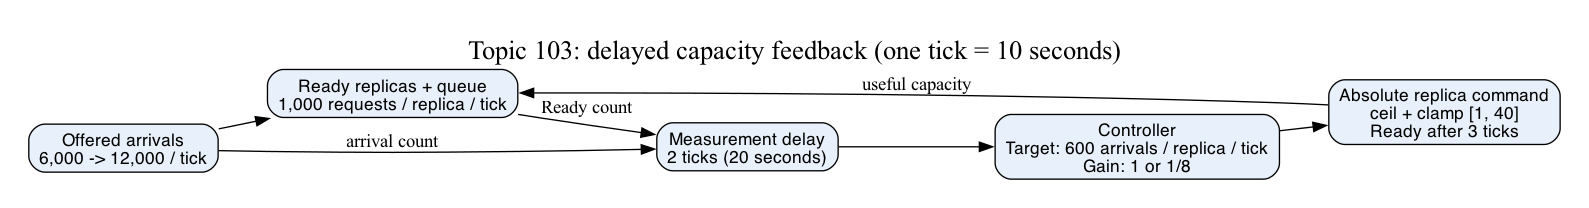
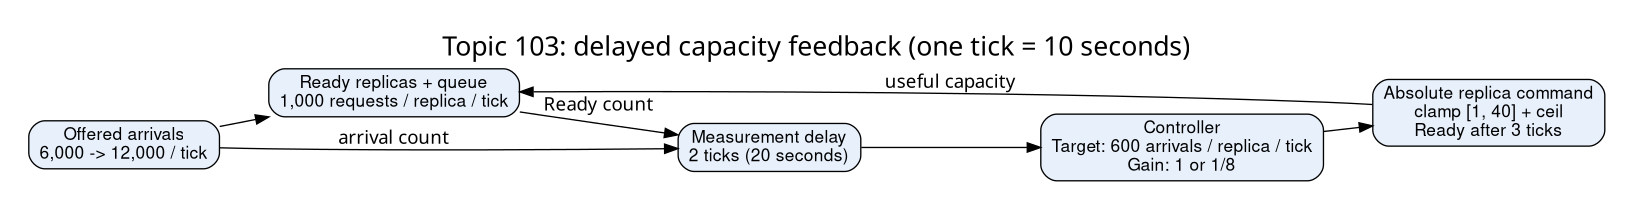
fix(103): state the combined loop delay and test both gain policies
README: the sampled ready count reflects a command issued one actuation
delay earlier, so the recurrence delay is d = m + a - 1. With m=2 and a=3
that is d=4 and the gain bound is about 0.347. The text previously quoted
the d=2 bound, 0.618.

RESULTS: name what each host artifact retains. The Linux run logs hold the
archive hash, uname, lscpu, and rustc version; the local artifacts hold the
platform string, architecture, Python version, and test output. Cite the
final_ready_span field behind the fast-policy span claim. Record the
commits that postdate the tested source.

loop.dot/loop.png: label the actuator "clamp [1, 40] + ceil", the order
simulate applies. Rendered with `dot -Tpng loop.dot -o loop.png`.

src/lib.rs: add one unit test covering Policy::Fast, Policy::Slow with a
non-zero deficit, ceiling rounding of a fractional state, and the lower
clamp. Four mutants of simulate passed the three existing tests and fail
this one. simulate, src/main.rs, and experiment/check.py are byte-identical
to 936c93f; the release binary reproduces state digest 1dbaca1c.

Remedy decision for the test: Small tier, 3 judges, unanimous for the
in-module unit test over a tests/ integration file (CI does not run it)
and over declining; decided by majority.

Changed region(s): [[0.0, 0.3173, 0.9868, 0.8942], [0.2467, 0.1731, 0.7401, 0.2885]]

diff --git a/topics/103-feedback-control/src/lib.rs b/topics/103-feedback-control/src/lib.rs
@@ -117,6 +117,25 @@ mod tests {
     }
 
     #[test]
+    fn gain_policies_accumulate_fractional_deficits_and_clamp_low() {
+        // 6,300 arrivals against ten ready replicas is a deficit of half a replica.
+        let fast = simulate(&[6_300; 2], &[true; 2], Policy::Fast, 0, 1);
+        assert_eq!((fast[0].desired, fast[0].command), (50_400, 11));
+        assert_eq!(
+            (fast[1].ready, fast[1].desired, fast[1].command),
+            (11, 48_000, 10)
+        );
+        let slow = simulate(&[6_300; 2], &[true; 2], Policy::Slow, 0, 1);
+        assert_eq!((slow[0].desired, slow[0].command), (48_300, 11));
+        assert_eq!(
+            (slow[1].ready, slow[1].desired, slow[1].command),
+            (11, 48_000, 10)
+        );
+        let idle = simulate(&[0], &[true], Policy::Fast, 0, 1);
+        assert_eq!((idle[0].desired, idle[0].command), (4_800, 1));
+    }
+
+    #[test]
     fn delay_free_linear_recurrence_matches_closed_form() {
         let mut error = 1.0_f64;
         for k in 0..100 {

diff --git a/topics/103-feedback-control/RESULTS.md b/topics/103-feedback-control/RESULTS.md
@@ -41,9 +41,13 @@ Tested source: `936c93f1f6ee13a7dd705596f4fadf315b00c5f6`.
 
 Local macOS arm64, Linux AArch64, and Linux x86_64 each pass 72,000 complete
 state comparisons (288,000 field comparisons), three unit tests, and one doctest.
-All three have identical state-output digests. Rust 1.93.1 release builds; Python
-versions and CPU/kernel metadata are retained with each host result. These are
-deterministic simulation outcomes; host runtime speed is outside the experiment.
+All three have identical state-output digests. The workspace pins Rust 1.93.1;
+builds use the release profile. Each host JSON retains the platform string,
+machine architecture, and Python version. The Linux run logs also retain the
+archive SHA-256, `uname -a`, `lscpu`, and the `rustc` version. The local log
+retains the test and release-build output; the local CPU model and `rustc`
+version were not captured. These are deterministic simulation outcomes; host
+runtime speed is outside the experiment.
 
 | Workload | Policy | Queue area median [min, max] | Replica-ticks median | Command changes median | Final queue median |
 |---|---|---:|---:|---:|---:|
@@ -84,10 +88,11 @@ capacity. Slow ends with 10,606..14,190 queued requests; feed-forward ends with
 backlog-aware controller and explicit drain-time objective are the next experiment.
 All policies exceed available service during the surge.
 
-Fast keeps a final ready span of 39 on every workload and every seed. This
-persistent oscillation occurs after noisy step/burst/saturation transients end.
-Lowering gain removes that cycle in the tested constant-load tails. The lower
-gain alone leaves the saturation-recovery queue problem unresolved.
+Fast keeps a final ready span of 39 on every workload and every seed: the
+`final_ready_span` minimum and maximum are both 39 in each host JSON summary.
+This persistent oscillation occurs after noisy step/burst/saturation transients
+end. Lowering gain removes that cycle in the tested constant-load tails. The
+lower gain alone leaves the saturation-recovery queue problem unresolved.
 
 These traces support workload-specific comparisons. Production stability,
 untested delay distributions, and universal optimal gains require further
@@ -96,5 +101,15 @@ evidence. The model omits dependency saturation and service-time drift.
 Raw JSON is retained losslessly as `measurements/{local,arm,x86}.json.gz`.
 Read it with `gzip -dc measurements/arm.json.gz`. Identity files record archive,
 raw-data, and compressed-data SHA-256 values. The exact tested source archive
-contains workspace manifests, toolchain pin, and this topic's files. Host scripts
-verify its hash before extracting, compiling, and running it.
+contains workspace manifests, toolchain pin, and this topic's files. The Linux
+host scripts verify its hash before extracting, compiling, and running it, and
+their logs retain the hash line. The local identity file records the same archive
+hash; the local log starts at the test build.
+
+Commits after the tested source correct documentation, reorder the diagram
+label, and add one unit test to `src/lib.rs`. That test covers both gain
+policies with a fractional deficit, ceiling rounding, and the lower clamp. The
+tested source ran three unit tests on each host; the head runs four, checked on
+Linux x86_64 with Rust 1.93.1. `simulate`, `src/main.rs`, and
+`experiment/check.py` are byte-identical to the tested commit, and the head
+release binary reproduces the recorded state digest on Linux x86_64.

diff --git a/topics/103-feedback-control/README.md b/topics/103-feedback-control/README.md
@@ -53,10 +53,13 @@ remain active.
 
 For the ideal scalar error recurrence `e[k+1] = e[k] - g*e[k-d]`, all roots of
 `z^(d+1) - z^d + g` must lie inside the unit circle. The positive-gain interval
-is `0 < g < 2*sin(pi/(4*d+2))`. For d=0 this is 0<g<2; for d=2 the upper bound
-is about 0.618. This result concerns a continuous-valued linear recurrence.
-Replay integer rounding, saturation, missing observations, and readiness state
-for an actual autoscaler.
+is `0 < g < 2*sin(pi/(4*d+2))`. The sampled ready count reflects a command
+issued one actuation delay earlier, so measurement delay m and actuation delay
+a give `d = m + a - 1`. For d=0 this is 0<g<2. This experiment has m=2 and a=3,
+so d=4 and the upper bound is about 0.347. Gain 1/8 lies inside that interval;
+gain 1 lies outside it. This result concerns a continuous-valued linear
+recurrence. Replay integer rounding, saturation, missing observations, and
+readiness state for an actual autoscaler.
 
 Use lower gain for delay-driven overcorrection. Filtering reduces noise and adds
 lag. Tolerance accepts small error. Hysteresis uses distinct switching thresholds.
